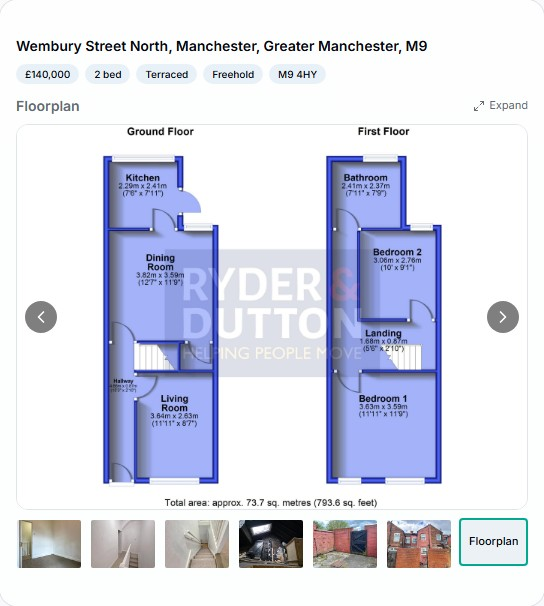
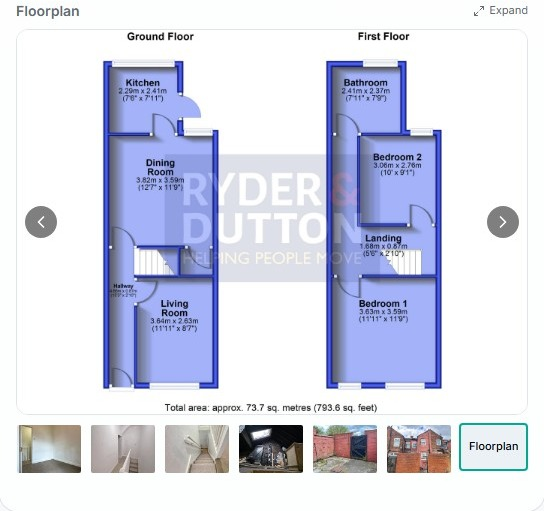
Match heights of Listing Import, Floorplan and Quick Analyser cards
Quick Analyser now shows the real monthly rent/mortgage/cash flow breakdown beneath the score (previously cropped out), adding genuine substance instead of empty space. Floorplan crop trims the redundant address/chips header (already shown in the Listing Import card next to it). Combined with align-items:stretch, all three cards now render at identical heights (508/540 across widths) instead of the Quick Analyser card being ~230px shorter with a big empty gap below it.

diff --git a/index.html b/index.html
@@ -120,8 +120,8 @@
           <div class="quick-proof-stack">
             <article class="quick-proof-card">
               <div class="card-heading"><span>ORIGINAL FLOORPLAN</span><h3>Layout evidence travels with the deal.</h3></div>
-              <button class="image-button" type="button" data-lightbox="assets/screens/wembury-floorplan.jpg" data-caption="Original listing floorplan inside BoaTenure">
-                <img src="assets/screens/wembury-floorplan.jpg" width="544" height="606" alt="Original Wembury Street North floorplan displayed inside BoaTenure">
+              <button class="image-button" type="button" data-lightbox="assets/screens/wembury-floorplan.jpg?v=2" data-caption="Original listing floorplan inside BoaTenure">
+                <img src="assets/screens/wembury-floorplan.jpg?v=2" width="544" height="511" alt="Original Wembury Street North floorplan displayed inside BoaTenure">
               </button>
             </article>
             <article class="quick-result-card">
@@ -131,8 +131,8 @@
                 <p class="decision-question">80/100 · 9.86% yield · £374/month pre-tax cash flow</p>
                 <p>The assumptions remain editable and the BRRR choice carries into full underwriting.</p>
               </div>
-              <button class="image-button" type="button" data-lightbox="assets/screens/wembury-quick-result.jpg" data-caption="Quick Analyser result for the Wembury Street North listing">
-                <img src="assets/screens/wembury-quick-result.jpg" width="544" height="242" alt="BoaTenure Quick Analyser showing an 80 out of 100 strong rental result">
+              <button class="image-button" type="button" data-lightbox="assets/screens/wembury-quick-result.jpg?v=2" data-caption="Quick Analyser result and monthly cash flow breakdown for the Wembury Street North listing">
+                <img src="assets/screens/wembury-quick-result.jpg?v=2" width="544" height="473" alt="BoaTenure Quick Analyser showing an 80 out of 100 strong rental result with the monthly rent, mortgage and cash flow breakdown">
               </button>
             </article>
           </div>

diff --git a/styles.css b/styles.css
@@ -118,7 +118,7 @@ h1 span, h2 span { color: var(--teal); }
 .case-file small { color: var(--muted); font-size: 11px; }
 .case-file > i { margin-left: auto; padding: 6px 9px; border-radius: 99px; color: var(--teal-dark); background: var(--teal-pale); font-size: 9px; font-style: normal; font-weight: 850; letter-spacing: .1em; }
 .feature-stage { display: grid; grid-template-columns: minmax(0, 1.55fr) minmax(270px, .45fr); gap: 32px; align-items: center; }
-.quick-proof-grid { display: grid; grid-template-columns: repeat(3, minmax(0, 1fr)); gap: 18px; align-items: start; }
+.quick-proof-grid { display: grid; grid-template-columns: repeat(3, minmax(0, 1fr)); gap: 18px; align-items: stretch; }
 .quick-proof-stack { display: contents; }
 .quick-proof-card, .quick-result-card { overflow: hidden; border: 1px solid var(--line); border-radius: 14px; background: var(--paper); }
 .quick-proof-card .image-button { width: 100%; border-top: 1px solid var(--line); }
